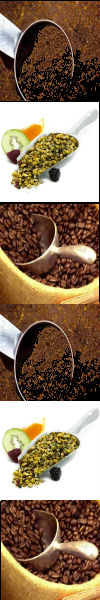
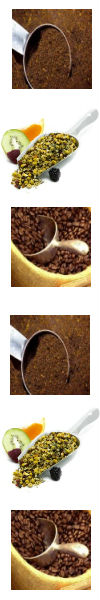
2016-06-01

diff --git a/zProjects/SlotMachine/SlotMachine.css b/zProjects/SlotMachine/SlotMachine.css
@@ -51,8 +51,8 @@
     to { -moz-transform: rotate(30deg)}
 }
 @keyframes pull {
-    from {transform: rotateZ(0deg);}
-    to { transform: rotateZ(30deg)}
+    from {transform: rotate(0deg);}
+    to { transform: rotate(30deg)}
 }
 
 /* ----- reels ----- */
@@ -78,7 +78,7 @@
     background: url("images/filter.jpg") 0 50px;
 }
 .inner-reel#ground{
-    background: url("images/beans.jpg") 0 50px;
+    background: url("images/grounds.jpg") 0 50px;
 }
 
 /* -------- message --------------  */
@@ -86,7 +86,7 @@
     display: none;
     position: absolute;
     left: 100px;
-    top:50px;
+    top:40px;
     right: 100px;
     width: 200px;
     background-color: white;

diff --git a/zProjects/SlotMachine/SlotMachine.js b/zProjects/SlotMachine/SlotMachine.js
@@ -28,9 +28,6 @@ jQuery(function($) {
 
     function initReel(){
         turnSpeed = 3;
-        makerPosition = 50;
-        filterPosition = 50;
-        groundPosition= 50;
         randomMaker = 0;
         randomGround = 0;
         randomFilter = 0;
